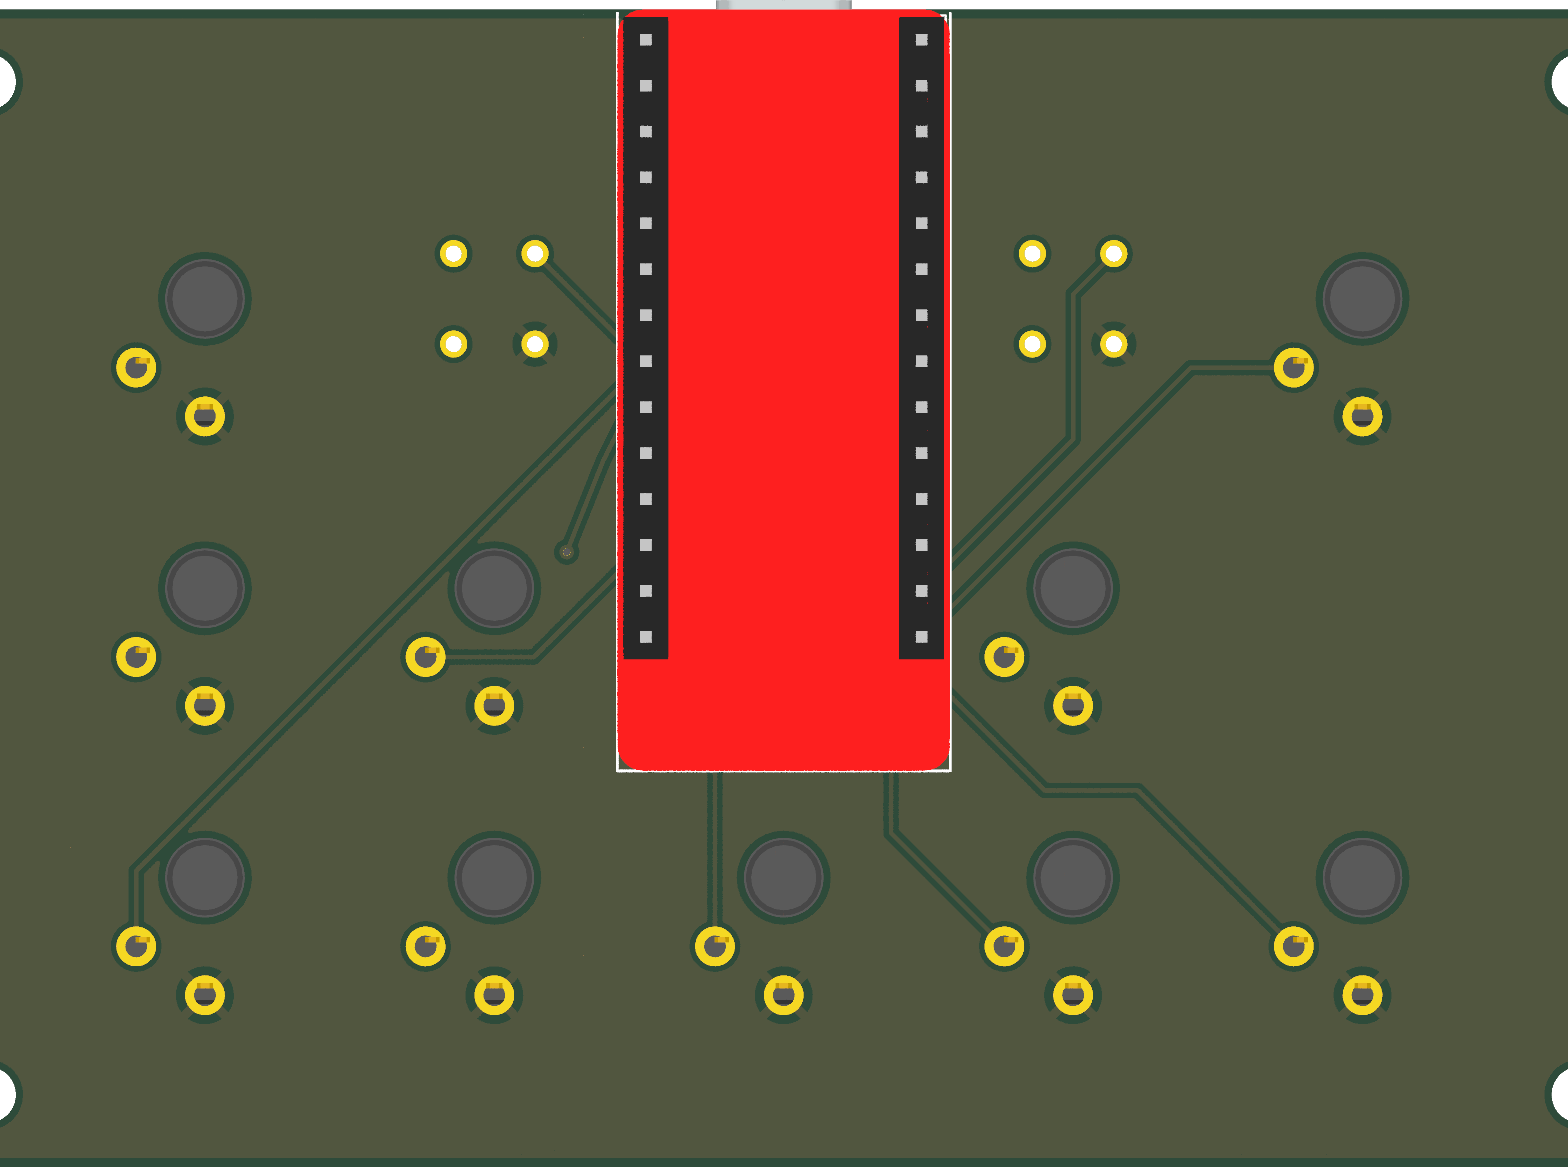
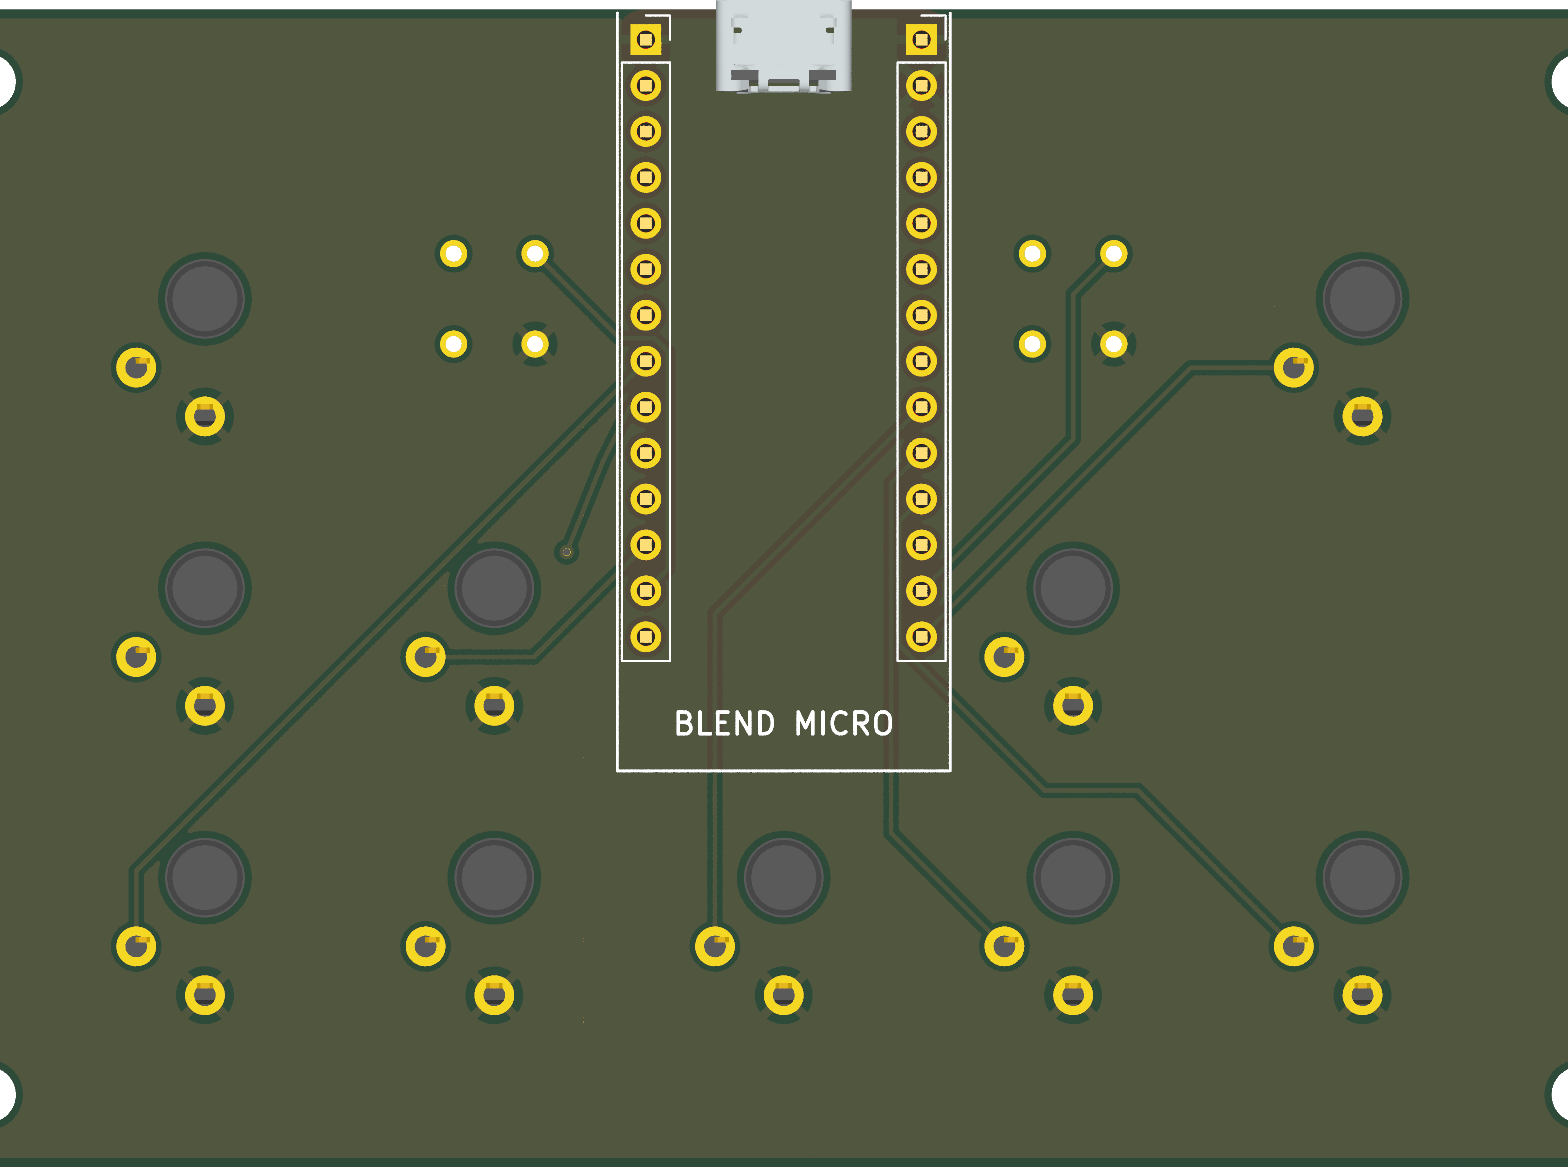
fix(3d): rotar 180 en Y la Blend Micro en vez de mirror en X
El usuario reporto que tras el mirror los pines de los headers apuntaban
para el lado equivocado (hacia afuera en vez de hacia J1/J2). Verificado
numericamente (centroides + volumen + validez topologica de las 14
sub-partes) que el mirror en X del commit anterior era geometricamente
exacto y no toco Y/Z para nada -- asi que el problema de los pines ya
estaba en el archivo original, solo que no se habia notado hasta mirar
de cerca.

La solucion es mas simple que el problema: el modulo necesitaba DOS
correcciones (mirror en X para el header L/R + flip en Z para que los
pines apunten hacia adentro), y espejar en dos ejes distintos equivale
matematicamente a UNA rotacion de 180 grados sobre el eje Y (dos
reflexiones = una rotacion). Las rotaciones son seguras en KiCad -- no
invierten normales de cara como una reflexion pura, que es justo lo que
habia roto el primer intento (scale xyz -1 1 1, commit anterior).

- BlendMicro_Module.kicad_mod: vuelve a apuntar al BlendMicro_Module_V1.step
  ORIGINAL (no al _mirrored), con rotate (xyz 0 180 0), scale (1 1 1).
- redbearpad.kicad_pcb: BLENDMICRO1 actualizado igual (indexando el vector
  de modelos, no iterando -- el bug de siempre).
- Se borra libs/redbearpad.3dshapes/BlendMicro_Module_V1_mirrored.step
  (4.6 MB sin uso, superado por la rotacion).
- mirror_blendmicro_step.py se conserva como referencia (marcado SUPERADO
  en el docstring): sigue siendo la tecnica correcta para espejar en UN
[…]

Changed region(s): [[0.375, 0.0, 0.625, 0.6735]]

diff --git a/scripts/mirror_blendmicro_step.py b/scripts/mirror_blendmicro_step.py
@@ -1,4 +1,19 @@
-"""Espeja BlendMicro_Module_V1.step en el eje X (mirror izquierda/derecha),
+"""SUPERADO (2026-08-09): al final no hizo falta. El footprint necesitaba DOS
+correcciones (mirror en X para el header L/R, Y flip en Z porque los pines
+apuntaban al lado equivocado) y espejar en dos ejes distintos equivale
+matematicamente a UNA rotacion de 180 grados sobre el eje Y (dos reflexiones
+= una rotacion). Las rotaciones son seguras en KiCad (no invierten normales
+de cara como una reflexion), asi que el fix final quedo en
+BlendMicro_Module.kicad_mod: `rotate (xyz 0 180 0)` sobre el
+BlendMicro_Module_V1.step ORIGINAL, sin este script ni su salida
+(BlendMicro_Module_V1_mirrored.step, borrada del repo por peso muerto -- 4.6
+MB sin uso). Se conserva este script como referencia: la tecnica de
+reflexion geometrica real via CadQuery/OCC SIGUE siendo la forma correcta de
+espejar un solido B-rep en un SOLO eje (algo que una rotacion no puede
+lograr, porque una rotacion pura nunca cambia la quiralidad/orientacion de
+un objeto).
+
+Espeja BlendMicro_Module_V1.step en el eje X (mirror izquierda/derecha),
 preservando nombres y colores de cada sub-parte.
 
 Por que no un simple `scale (xyz -1 1 1)` en el bloque (model ...) del

diff --git a/README.md b/README.md
@@ -89,21 +89,28 @@ abajo, X izquierda, B derecha**):
 - **Blend Micro**: modelo real modelado por el usuario en Fusion 360 — PCB
   roja con los dos headers de 14 pines y un conector micro-USB detallado,
   que asoma por el borde superior de la placa tal como en la física real.
-  El footprint usa `libs/redbearpad.3dshapes/BlendMicro_Module_V1_mirrored.step`
-  (no el `_V1.step` original: hubo que espejarlo en X y ese archivo es el
-  resultado). El mirror se hizo con `scripts/mirror_blendmicro_step.py`
-  (CadQuery/OCC, reflexión geométrica real vía `Shape.mirror`) en vez del
-  `scale (xyz -1 1 1)` que ofrece el bloque `(model ...)` de KiCad: esa
-  negación de escala invierte la orientación de las caras del sólido y el
-  renderer las descarta (probado — el cuerpo del PCB desaparecía casi
-  entero, solo quedaba un borde degenerado). El header del propio modulo
-  reutiliza dos veces `PinHeader_1x14_P2.54mm.step` (ver abajo), más un
-  conector USB de otra fuente.
+  El footprint usa el `BlendMicro_Module_V1.step` **original**, con
+  `rotate (xyz 0 180 0)` en el bloque `(model ...)`: el modulo necesitaba
+  dos correcciones (mirror en X para que el header quedara en el lado
+  correcto, y flip en Z porque los pines apuntaban hacia afuera en vez de
+  hacia J1/J2) y espejar en dos ejes distintos equivale matematicamente a
+  una sola rotacion de 180° sobre Y — mas simple y sin el riesgo de una
+  reflexion pura (ver mas abajo). El header del propio modulo reutiliza dos
+  veces `PinHeader_1x14_P2.54mm.step` (ver abajo), mas un conector USB de
+  otra fuente.
   Footprint sin pads (`BlendMicro_Module`, ref `BLENDMICRO1`): la conexión
   eléctrica real la hacen J1/J2 — sus modelos 3D de fábrica (socket hembra)
   se limpiaron (`fp.Models().clear()`, también en `gen_pcb.py` para que una
   regeneración futura no los reponga) porque quedaban duplicados sobre los
   headers que ya trae el modelo de la Blend Micro.
+  `scripts/mirror_blendmicro_step.py` (CadQuery/OCC, reflexión geométrica
+  real vía `Shape.mirror`) quedó sin usar pero documentado como referencia:
+  es la técnica correcta para espejar un sólido B-rep en **un solo eje** (lo
+  que la rotación de arriba no puede lograr). Se probó primero el camino
+  obvio para el mirror en X — `scale (xyz -1 1 1)` en el bloque
+  `(model ...)` — y falló: esa negación de escala invierte la orientación de
+  las caras del sólido y el renderer las descarta (el cuerpo del PCB
+  desaparecía casi entero, solo quedaba un borde degenerado).
   `libs/redbearpad.3dshapes/BlendMicro_Module.step` (placa plana sin
   detalle, generada con `scripts/gen_blendmicro_step.py` a partir del DXF
   oficial) queda como **fallback** por si se pierde el modelo real.
